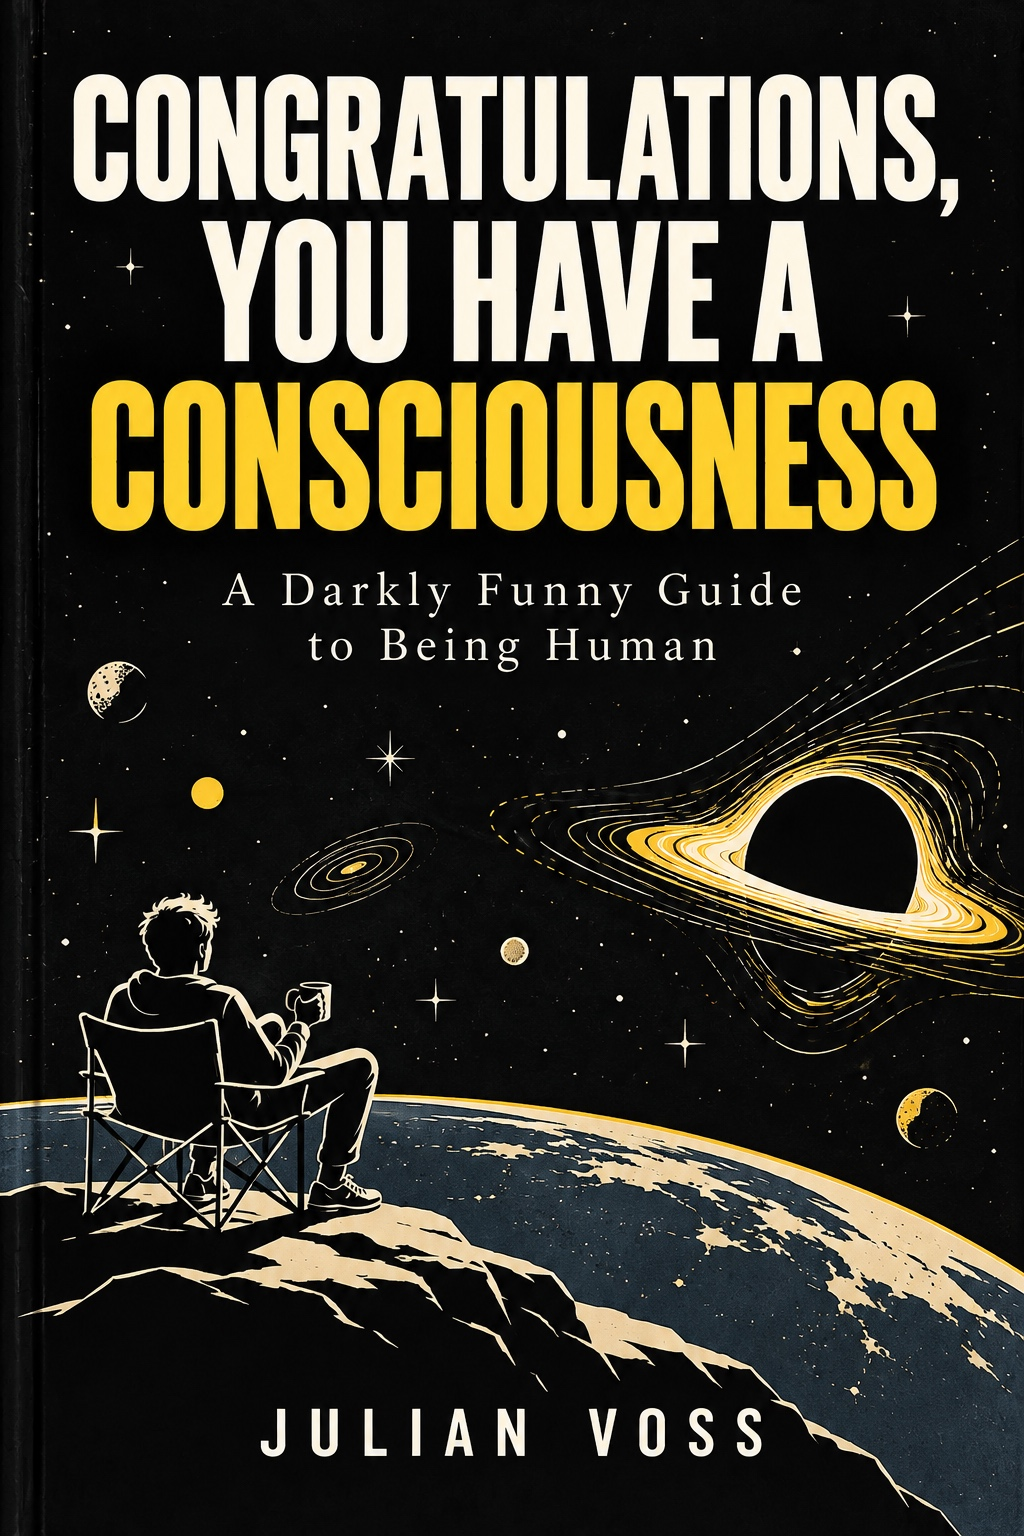
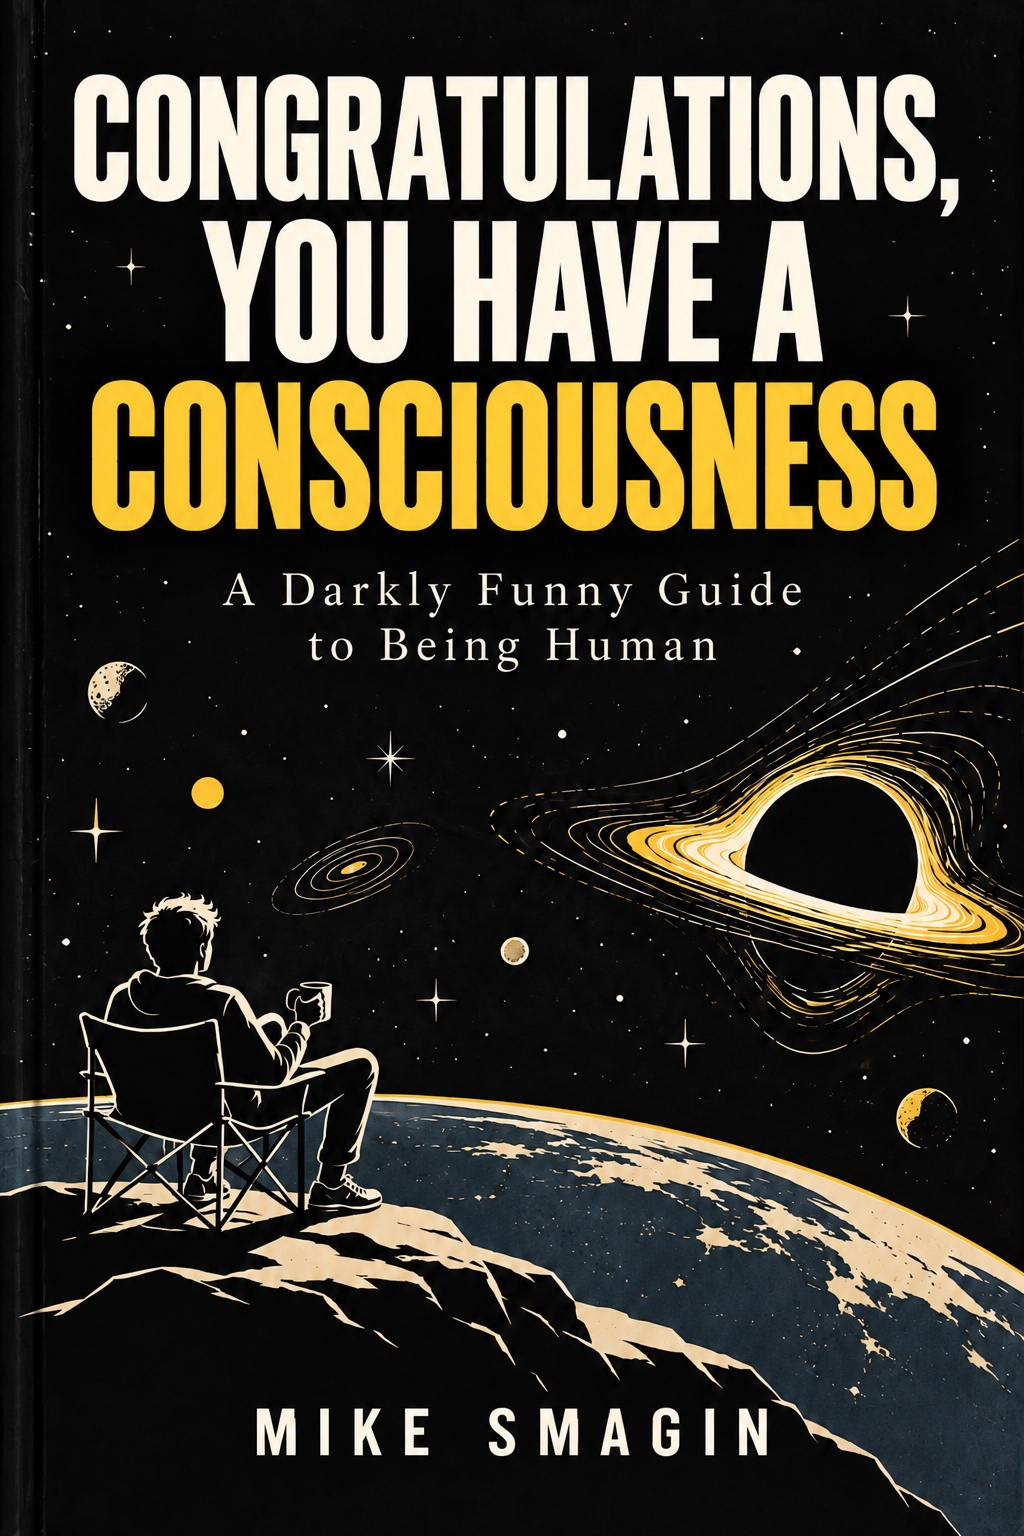
Update book cover author credit

diff --git a/the-book/index.html b/the-book/index.html
@@ -1,1 +1,1 @@
-<!doctype html><html lang="en"><head><meta charset="utf-8"><meta name="viewport" content="width=device-width,initial-scale=1"><meta name="theme-color" content="#111311"><meta name="description" content="A darkly funny guide to being human. Read the first chapters of the book in a quiet, distraction-light format."><title>Congratulations, You Have a Consciousness — The Book</title><link rel="stylesheet" href="style.css"><link rel="icon" href="cover.jpg?v=232e0e20e9a01f7700f6a160657667a9e38b27ee" type="image/jpeg"><meta property="og:image" content="https://iodiot.github.io/the-book/cover.jpg?v=232e0e20e9a01f7700f6a160657667a9e38b27ee"></head><body class=""><a class="skip-link" href="#main">Skip to content</a><header class="site-header"><a class="brand" href="./"><span class="brand-mark" aria-hidden="true">∴</span><span>The Book</span></a><span class="header-note">A work in progress</span></header><main id="main"><section class="hero"><figure class="cover-wrap"><img src="cover.jpg?v=232e0e20e9a01f7700f6a160657667a9e38b27ee" width="640" height="960" alt="Book cover: Congratulations, You Have a Consciousness"></figure><div class="hero-copy-wrap"><p class="eyebrow">A darkly funny guide to being human</p><h1>Congratulations, You Have a <em>Consciousness.</em></h1><p class="subtitle">Sorry about that.</p><p class="hero-copy">A book about the strange gift of being aware: the stories we tell ourselves, the things we can change, and the limits we learn to live with.</p><div class="hero-actions"><a class="button" href="chapter-01.html">Begin with Chapter One <span aria-hidden="true">→</span></a><a class="text-link" href="#contents">See the chapters</a></div><p class="reading-meta">Two chapters available · new pages will appear here as the book grows</p></div></section><section class="contents" id="contents"><div class="contents-inner"><p class="section-kicker">The reading room</p><h2>Chapters</h2><div class="chapter-list"><article class="chapter-card"><span class="chapter-number">01</span><div><h3>Congratulations, You're Conscious. Sorry About That.</h3><p>Consciousness as a source of possibility—and a surprising amount of extra suffering.</p><div class="chapter-details"><span>5,018 words</span><span aria-hidden="true">·</span><span>23 min read</span></div></div><a class="read-link" href="chapter-01.html">Read chapter <span aria-hidden="true">→</span></a></article><article class="chapter-card"><span class="chapter-number">02</span><div><h3>The Control Problem</h3><p>What belongs to your influence, what doesn’t, and how to keep acting without pretending you control the outcome.</p><div class="chapter-details"><span>4,997 words</span><span aria-hidden="true">·</span><span>23 min read</span></div></div><a class="read-link" href="chapter-02.html">Read chapter <span aria-hidden="true">→</span></a></article></div><p class="closing-note">This is the book’s quiet corner of the internet. Read at your own pace; the chapters are presented in a simple, distraction-light format.</p></div></section></main><footer class="site-footer"><span>Congratulations, You Have a Consciousness</span><a href="#main">Back to the beginning ↑</a></footer><script src="reader.js" defer></script></body></html>
+<!doctype html><html lang="en"><head><meta charset="utf-8"><meta name="viewport" content="width=device-width,initial-scale=1"><meta name="theme-color" content="#111311"><meta name="description" content="A darkly funny guide to being human. Read the first chapters of the book in a quiet, distraction-light format."><title>Congratulations, You Have a Consciousness — The Book</title><link rel="stylesheet" href="style.css"><link rel="icon" href="cover.jpg?v=mike-smagin-20261025" type="image/jpeg"><meta property="og:image" content="https://iodiot.github.io/the-book/cover.jpg?v=mike-smagin-20261025"></head><body class=""><a class="skip-link" href="#main">Skip to content</a><header class="site-header"><a class="brand" href="./"><span class="brand-mark" aria-hidden="true">∴</span><span>The Book</span></a><span class="header-note">A work in progress</span></header><main id="main"><section class="hero"><figure class="cover-wrap"><img src="cover.jpg?v=mike-smagin-20261025" width="640" height="960" alt="Book cover: Congratulations, You Have a Consciousness"></figure><div class="hero-copy-wrap"><p class="eyebrow">A darkly funny guide to being human</p><h1>Congratulations, You Have a <em>Consciousness.</em></h1><p class="subtitle">Sorry about that.</p><p class="hero-copy">A book about the strange gift of being aware: the stories we tell ourselves, the things we can change, and the limits we learn to live with.</p><div class="hero-actions"><a class="button" href="chapter-01.html">Begin with Chapter One <span aria-hidden="true">→</span></a><a class="text-link" href="#contents">See the chapters</a></div><p class="reading-meta">Two chapters available · new pages will appear here as the book grows</p></div></section><section class="contents" id="contents"><div class="contents-inner"><p class="section-kicker">The reading room</p><h2>Chapters</h2><div class="chapter-list"><article class="chapter-card"><span class="chapter-number">01</span><div><h3>Congratulations, You're Conscious. Sorry About That.</h3><p>Consciousness as a source of possibility—and a surprising amount of extra suffering.</p><div class="chapter-details"><span>5,018 words</span><span aria-hidden="true">·</span><span>23 min read</span></div></div><a class="read-link" href="chapter-01.html">Read chapter <span aria-hidden="true">→</span></a></article><article class="chapter-card"><span class="chapter-number">02</span><div><h3>The Control Problem</h3><p>What belongs to your influence, what doesn’t, and how to keep acting without pretending you control the outcome.</p><div class="chapter-details"><span>4,997 words</span><span aria-hidden="true">·</span><span>23 min read</span></div></div><a class="read-link" href="chapter-02.html">Read chapter <span aria-hidden="true">→</span></a></article></div><p class="closing-note">This is the book’s quiet corner of the internet. Read at your own pace; the chapters are presented in a simple, distraction-light format.</p></div></section></main><footer class="site-footer"><span>Congratulations, You Have a Consciousness</span><a href="#main">Back to the beginning ↑</a></footer><script src="reader.js" defer></script></body></html>

diff --git a/the-book/chapter-02.html b/the-book/chapter-02.html
@@ -1,4 +1,4 @@
-<!doctype html><html lang="en"><head><meta charset="utf-8"><meta name="viewport" content="width=device-width,initial-scale=1"><meta name="theme-color" content="#111311"><meta name="description" content="Read Chapter 2: The Control Problem."><title>The Control Problem — The Book</title><link rel="stylesheet" href="style.css"><link rel="icon" href="cover.jpg?v=232e0e20e9a01f7700f6a160657667a9e38b27ee" type="image/jpeg"><meta property="og:image" content="https://iodiot.github.io/the-book/cover.jpg?v=232e0e20e9a01f7700f6a160657667a9e38b27ee"></head><body class="reader-page" data-chapter="chapter-02"><div class="reader-progress" role="progressbar" aria-label="Reading progress" aria-valuemin="0" aria-valuemax="100" aria-valuenow="0"><span></span></div><a class="skip-link" href="#article">Skip to chapter</a><header class="reader-header"><a class="reader-home" href="./">← The Book</a><div class="reader-tools"><button class="tool-button tool-label" data-focus aria-pressed="false" title="Hide reading controls">Focus mode</button><button class="tool-button" data-font="down" aria-label="Decrease text size" title="Decrease text size">A−</button><button class="tool-button" data-font="up" aria-label="Increase text size" title="Increase text size">A+</button><button class="tool-button" data-theme aria-label="Toggle light and dark theme" title="Toggle reading theme">◐</button></div></header><div class="reader-meta">Chapter 02 · 4,997 words · 23 min read</div><h1 class="reader-title"><span>Chapter 02</span>The Control Problem</h1><article class="reader-article" id="article"><p>The leak begins at 2:17 in the morning, which is an unnecessarily theatrical hour for water to make an announcement. You wake to a small, steady sound from the bathroom. Drip. Drip. Drip. The ceiling above the kitchen has developed a brown stain shaped vaguely like a country you once failed to identify on a map. You stand beneath it in your underwear, holding a saucepan, and learn that adulthood is mostly discovering new ways to move water from one container to another.</p>
+<!doctype html><html lang="en"><head><meta charset="utf-8"><meta name="viewport" content="width=device-width,initial-scale=1"><meta name="theme-color" content="#111311"><meta name="description" content="Read Chapter 2: The Control Problem."><title>The Control Problem — The Book</title><link rel="stylesheet" href="style.css"><link rel="icon" href="cover.jpg?v=mike-smagin-20261025" type="image/jpeg"><meta property="og:image" content="https://iodiot.github.io/the-book/cover.jpg?v=mike-smagin-20261025"></head><body class="reader-page" data-chapter="chapter-02"><div class="reader-progress" role="progressbar" aria-label="Reading progress" aria-valuemin="0" aria-valuemax="100" aria-valuenow="0"><span></span></div><a class="skip-link" href="#article">Skip to chapter</a><header class="reader-header"><a class="reader-home" href="./">← The Book</a><div class="reader-tools"><button class="tool-button tool-label" data-focus aria-pressed="false" title="Hide reading controls">Focus mode</button><button class="tool-button" data-font="down" aria-label="Decrease text size" title="Decrease text size">A−</button><button class="tool-button" data-font="up" aria-label="Increase text size" title="Increase text size">A+</button><button class="tool-button" data-theme aria-label="Toggle light and dark theme" title="Toggle reading theme">◐</button></div></header><div class="reader-meta">Chapter 02 · 4,997 words · 23 min read</div><h1 class="reader-title"><span>Chapter 02</span>The Control Problem</h1><article class="reader-article" id="article"><p>The leak begins at 2:17 in the morning, which is an unnecessarily theatrical hour for water to make an announcement. You wake to a small, steady sound from the bathroom. Drip. Drip. Drip. The ceiling above the kitchen has developed a brown stain shaped vaguely like a country you once failed to identify on a map. You stand beneath it in your underwear, holding a saucepan, and learn that adulthood is mostly discovering new ways to move water from one container to another.</p>
 <p>You turn off the tap. The dripping continues. You find the main valve, twist it, and the kitchen faucet stops. The ceiling continues its quiet performance. You look up, as if eye contact might persuade it to respect the lease.</p>
 <p>At least this part is useful: the valve changed something. You found a cause and acted on it. The rest of the night is less cooperative. You cannot command the ceiling to dry, the plumber to answer, the landlord to care, the stain to remain the size it is now, or your brain to stop calculating the cost of a repair you have not yet been quoted. One small leak divides the world into two categories: what you can do, and what you can only monitor while pretending monitoring is the same as control.</p>
 <p>That division is one of the hardest things to live with. We need control. We need to make plans, keep our bodies alive, protect people we love, and build homes that do not rain indoors. Yet the world keeps handing us variables we did not choose. Other people have their own minds. Bodies break. Weather ignores calendars. Economies change. The past refuses to become editable just because we have finally thought of a better sentence.</p>

diff --git a/the-book/chapter-01.html b/the-book/chapter-01.html
@@ -1,4 +1,4 @@
-<!doctype html><html lang="en"><head><meta charset="utf-8"><meta name="viewport" content="width=device-width,initial-scale=1"><meta name="theme-color" content="#111311"><meta name="description" content="Read Chapter 1: Congratulations, You're Conscious. Sorry About That.."><title>Congratulations, You're Conscious. Sorry About That. — The Book</title><link rel="stylesheet" href="style.css"><link rel="icon" href="cover.jpg?v=232e0e20e9a01f7700f6a160657667a9e38b27ee" type="image/jpeg"><meta property="og:image" content="https://iodiot.github.io/the-book/cover.jpg?v=232e0e20e9a01f7700f6a160657667a9e38b27ee"></head><body class="reader-page" data-chapter="chapter-01"><div class="reader-progress" role="progressbar" aria-label="Reading progress" aria-valuemin="0" aria-valuemax="100" aria-valuenow="0"><span></span></div><a class="skip-link" href="#article">Skip to chapter</a><header class="reader-header"><a class="reader-home" href="./">← The Book</a><div class="reader-tools"><button class="tool-button tool-label" data-focus aria-pressed="false" title="Hide reading controls">Focus mode</button><button class="tool-button" data-font="down" aria-label="Decrease text size" title="Decrease text size">A−</button><button class="tool-button" data-font="up" aria-label="Increase text size" title="Increase text size">A+</button><button class="tool-button" data-theme aria-label="Toggle light and dark theme" title="Toggle reading theme">◐</button></div></header><div class="reader-meta">Chapter 01 · 5,018 words · 23 min read</div><h1 class="reader-title"><span>Chapter 01</span>Congratulations, You're Conscious. Sorry About That.</h1><article class="reader-article" id="article"><p>Imagine a Tuesday afternoon. Nothing dramatic is happening. You are standing in a supermarket queue with a basket containing bread, coffee, and the ingredients for a dinner you will probably improvise. The person ahead of you is paying in coins. The card reader is thinking about its life. Somewhere behind you, a child is explaining the emotional history of a cereal box at full volume.</p>
+<!doctype html><html lang="en"><head><meta charset="utf-8"><meta name="viewport" content="width=device-width,initial-scale=1"><meta name="theme-color" content="#111311"><meta name="description" content="Read Chapter 1: Congratulations, You're Conscious. Sorry About That.."><title>Congratulations, You're Conscious. Sorry About That. — The Book</title><link rel="stylesheet" href="style.css"><link rel="icon" href="cover.jpg?v=mike-smagin-20261025" type="image/jpeg"><meta property="og:image" content="https://iodiot.github.io/the-book/cover.jpg?v=mike-smagin-20261025"></head><body class="reader-page" data-chapter="chapter-01"><div class="reader-progress" role="progressbar" aria-label="Reading progress" aria-valuemin="0" aria-valuemax="100" aria-valuenow="0"><span></span></div><a class="skip-link" href="#article">Skip to chapter</a><header class="reader-header"><a class="reader-home" href="./">← The Book</a><div class="reader-tools"><button class="tool-button tool-label" data-focus aria-pressed="false" title="Hide reading controls">Focus mode</button><button class="tool-button" data-font="down" aria-label="Decrease text size" title="Decrease text size">A−</button><button class="tool-button" data-font="up" aria-label="Increase text size" title="Increase text size">A+</button><button class="tool-button" data-theme aria-label="Toggle light and dark theme" title="Toggle reading theme">◐</button></div></header><div class="reader-meta">Chapter 01 · 5,018 words · 23 min read</div><h1 class="reader-title"><span>Chapter 01</span>Congratulations, You're Conscious. Sorry About That.</h1><article class="reader-article" id="article"><p>Imagine a Tuesday afternoon. Nothing dramatic is happening. You are standing in a supermarket queue with a basket containing bread, coffee, and the ingredients for a dinner you will probably improvise. The person ahead of you is paying in coins. The card reader is thinking about its life. Somewhere behind you, a child is explaining the emotional history of a cereal box at full volume.</p>
 <p>You could simply wait. Your body knows how. Your feet hold you up; your eyes follow the slow progress of the queue; your hand keeps the basket from falling. For a few seconds, you are almost just an animal with errands.</p>
 <p>Then the mind arrives with a clipboard.</p>
 <p>You remember the thing you said in a meeting three years ago. You wonder whether your friend’s short reply means they are angry. You calculate how much money you should have saved by now, then compare yourself with a stranger whose career you know only through photographs of airport lounges. You think about the dinner, the rent, the climate, your parents getting older, and the email you have not answered. You begin composing a speech to a person who is not present and may not even have done anything wrong. You become aware that you are aware, and now you are annoyed about that too.</p>
